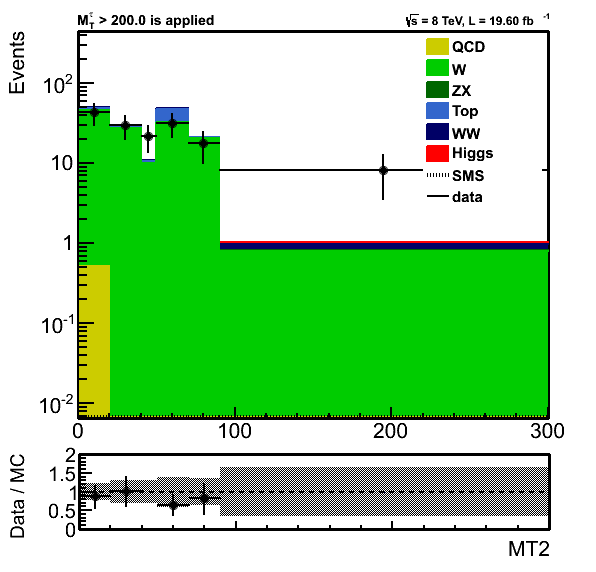
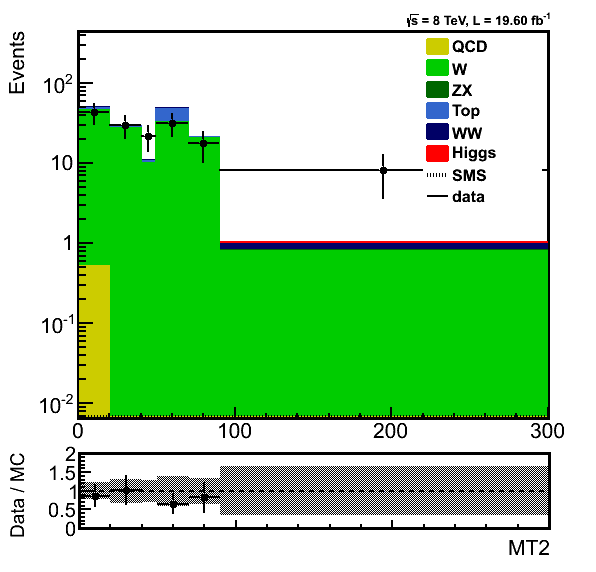
Closure is fixed.

diff --git a/notes/AN-14-275/trunk/FakeRateMuTau/Estimation_pfWJets_ExtraLepExcl_SameSignWeightedHiggs_tauMTApplied.C b/notes/AN-14-275/trunk/FakeRateMuTau/Estimation_pfWJets_ExtraLepExcl_SameSignWeightedHiggs_tauMTApplied.C
@@ -1,7 +1,7 @@
 {
 //=========Macro generated from canvas: MT2_ratioc_ratio/
-//=========  (Mon Feb 22 16:14:23 2016) by ROOT version5.32/00
-   TCanvas *MT2_ratioc_ratio = new TCanvas("MT2_ratioc_ratio", "",3,26,600,600);
+//=========  (Sat Jun 13 14:57:37 2015) by ROOT version5.34/03
+   TCanvas *MT2_ratioc_ratio = new TCanvas("MT2_ratioc_ratio", "",679,68,600,600);
    gStyle->SetOptFit(1);
    MT2_ratioc_ratio->Range(0,0,1,1);
    MT2_ratioc_ratio->SetFillColor(0);
@@ -18,7 +18,7 @@
    TPad *MT2_ratio_plotpad = new TPad("MT2_ratio_plotpad", "Pad containing the overlay plot",0,0.211838,1,1);
    MT2_ratio_plotpad->Draw();
    MT2_ratio_plotpad->cd();
-   MT2_ratio_plotpad->Range(-50.06678,-2.581339,330.4406,2.992695);
+   MT2_ratio_plotpad->Range(-50.06678,-2.596561,330.4406,3.097568);
    MT2_ratio_plotpad->SetFillColor(0);
    MT2_ratio_plotpad->SetFillStyle(4000);
    MT2_ratio_plotpad->SetBorderMode(0);
@@ -39,11 +39,11 @@
    MT2->SetName("MT2");
    MT2->SetTitle("");
    MT2->SetMinimum(0.02);
-   MT2->SetMaximum(224.2202);
+   MT2->SetMaximum(277.2461);
    
    TH1F *MT2_stack_1 = new TH1F("MT2_stack_1","",6,0,300);
-   MT2_stack_1->SetMinimum(0.006611959);
-   MT2_stack_1->SetMaximum(405.8226);
+   MT2_stack_1->SetMinimum(0.006512711);
+   MT2_stack_1->SetMaximum(506.9077);
    MT2_stack_1->SetDirectory(0);
    MT2_stack_1->SetStats(0);
    MT2_stack_1->SetLineWidth(2);
@@ -69,8 +69,6 @@
    
    Double_t xAxis1[7] = {0, 20, 40, 50, 70, 90, 300}; 
    
-   TH1D *h__MC = new TH1D("h__MC","", 6, xAxis1);
-
    TH1D *MT2_QCD = new TH1D("MT2_QCD","",6, xAxis1);
    MT2_QCD->SetEntries(4);
    MT2_QCD->SetStats(0);
@@ -275,34 +273,24 @@
    MT2_Higgs->GetZaxis()->SetTitleFont(42);
    MT2->Add(MT2_Higgs,"");
    MT2->Draw("hist");
-
-   h__MC->Add(MT2_QCD);
-   h__MC->Add(MT2_W);
-   h__MC->Add(MT2_ZX);
-   h__MC->Add(MT2_Top);
-   h__MC->Add(MT2_WW);
-   h__MC->Add(MT2_Higgs);
-
-
    Double_t xAxis7[7] = {0, 20, 40, 50, 70, 90, 300}; 
-  
+   
    TH1D *h2_copy = new TH1D("h2_copy","",6, xAxis7);
-   h2_copy->SetBinContent(1,17.5993 );
-   h2_copy->SetBinContent(2,27.941);
-   h2_copy->SetBinContent(3,30.4068 );
-   h2_copy->SetBinContent(4,49.374);
-   h2_copy->SetBinContent(5,5.79573);
-   h2_copy->SetBinContent(6,1.11233);
-
-   h2_copy->SetBinError(1,6.83998);
-   h2_copy->SetBinError(2,6.56287);
-   h2_copy->SetBinError(3,7.90066);
-   h2_copy->SetBinError(4,10.5467);
-   h2_copy->SetBinError(5,4.37239);
-   h2_copy->SetBinError(6,1.05646);
+   h2_copy->SetBinContent(1,19.40169);
+   h2_copy->SetBinContent(2,17.45068);
+   h2_copy->SetBinContent(3,32.86785);
+   h2_copy->SetBinContent(4,55.44922);
+   h2_copy->SetBinContent(5,10.13775);
+   h2_copy->SetBinContent(6,0.9940734);
+   h2_copy->SetBinError(1,7.148468);
+   h2_copy->SetBinError(2,6.773736);
+   h2_copy->SetBinError(3,8.451937);
+   h2_copy->SetBinError(4,11.72198);
+   h2_copy->SetBinError(5,5.173124);
+   h2_copy->SetBinError(6,1.059176);
    h2_copy->SetMinimum(0.05);
-   h2_copy->SetMaximum(224.2202);
-   h2_copy->SetEntries(388);
+   h2_copy->SetMaximum(277.2461);
+   h2_copy->SetEntries(438);
    h2_copy->SetStats(0);
 
    ci = TColor::GetColor("#ff0000");
@@ -350,20 +338,27 @@
    MT2_susy->GetZaxis()->SetTitleSize(0.035);
    MT2_susy->GetZaxis()->SetTitleFont(42);
    MT2_susy->Draw("samehist");
-   TLatex *   tex = new TLatex(0.13,0.943,"Closure (M_{T}^{#tau}>200 is applied)");
+   TLatex *   tex = new TLatex(0.13,0.943,"Closure");
 tex->SetNDC();
-   tex->SetTextSize(0.04);
+   tex->SetTextSize(0.0305);
    tex->SetLineWidth(2);
    tex->Draw();
-      tex = new TLatex(0.68,0.943,"#sqrt{s} = 8 TeV, L = 19.60 fb^{-1}");
-tex->SetNDC();
+
+   tex = new TLatex(20, 200,"#mu#tau");
+   tex->SetTextSize(0.05);
+   tex->SetLineWidth(2);
+   tex->Draw();
+
+
+   tex = new TLatex(0.68,0.943,"#sqrt{s} = 8 TeV, L = 19.60 fb^{-1}");
+   tex->SetNDC();
    tex->SetTextSize(0.0305);
    tex->SetLineWidth(2);
    tex->Draw();
    
    TH1F *MT2__1 = new TH1F("MT2__1","",6,0,300);
-   MT2__1->SetMinimum(0.006611959);
-   MT2__1->SetMaximum(405.8226);
+   MT2__1->SetMinimum(0.006512711);
+   MT2__1->SetMaximum(506.9077);
    MT2__1->SetDirectory(0);
    MT2__1->SetStats(0);
    MT2__1->SetLineWidth(2);
@@ -473,13 +468,13 @@ tex->SetNDC();
    entry->SetMarkerColor(1);
    entry->SetMarkerStyle(21);
    entry->SetMarkerSize(1);
-   entry=leg->AddEntry("MT2_susy","SMS","l");
-   entry->SetLineColor(1);
-   entry->SetLineStyle(3);
-   entry->SetLineWidth(4);
-   entry->SetMarkerColor(1);
-   entry->SetMarkerStyle(21);
-   entry->SetMarkerSize(1);
+//    entry=leg->AddEntry("MT2_susy","SMS","l");
+//    entry->SetLineColor(1);
+//    entry->SetLineStyle(3);
+//    entry->SetLineWidth(4);
+//    entry->SetMarkerColor(1);
+//    entry->SetMarkerStyle(21);
+//    entry->SetMarkerSize(1);
    entry=leg->AddEntry("MT2_data","data","l");
    entry->SetLineColor(1);
    entry->SetLineStyle(1);
@@ -509,18 +504,34 @@ tex->SetNDC();
    MT2_ratio_ratiopad->SetFrameLineWidth(3);
    MT2_ratio_ratiopad->SetFrameBorderMode(0);
    MT2_ratio_ratiopad->SetFrameBorderSize(0);
+   Double_t xAxis9[7] = {0, 20, 40, 50, 70, 90, 300}; 
    
-
-     TH1F *h1_copy  = (TH1F*)h__MC->Clone();
-   h1_copy->Divide(h1_copy);
-
-
+   TH1D *h1_copy = new TH1D("h1_copy","",6, xAxis9);
+   h1_copy->SetBinContent(1,1);
+   h1_copy->SetBinContent(2,1);
+   h1_copy->SetBinContent(3,1);
+   h1_copy->SetBinContent(4,1);
+   h1_copy->SetBinContent(5,1);
+   h1_copy->SetBinContent(6,1);
+   h1_copy->SetBinError(1,0.2483643);
+   h1_copy->SetBinError(2,0.3363495);
+   h1_copy->SetBinError(3,0.3224975);
+   h1_copy->SetBinError(4,0.3185094);
+   h1_copy->SetBinError(5,0.368699);
+   h1_copy->SetBinError(6,0.8412826);
    h1_copy->SetMinimum(0);
    h1_copy->SetMaximum(2);
+   h1_copy->SetEntries(29.41263);
    h1_copy->SetStats(0);
    h1_copy->SetFillColor(1);
    h1_copy->SetFillStyle(3001);
+
+   ci = TColor::GetColor("#000066");
+   h1_copy->SetLineColor(ci);
    h1_copy->SetLineWidth(2);
+
+   ci = TColor::GetColor("#000066");
+   h1_copy->SetMarkerColor(ci);
    h1_copy->GetXaxis()->SetTitle("MT2");
    h1_copy->GetXaxis()->SetNdivisions(505);
    h1_copy->GetXaxis()->SetLabelFont(42);
@@ -541,14 +552,29 @@ tex->SetNDC();
    h1_copy->GetZaxis()->SetTitleSize(0.035);
    h1_copy->GetZaxis()->SetTitleFont(42);
    h1_copy->Draw("E2");
+   Double_t xAxis10[7] = {0, 20, 40, 50, 70, 90, 300}; 
    
-   TH1F *h2_copy__2  = (TH1F*)h2_copy->Clone();
-   h2_copy__2->Divide(h__MC);
+   TH1D *h2_copy__2 = new TH1D("h2_copy__2","",6, xAxis10);
+   h2_copy__2->SetBinContent(1,0.4326482);
+   h2_copy__2->SetBinContent(2,0.6452815);
+   h2_copy__2->SetBinContent(3,3.318017);
+   h2_copy__2->SetBinContent(4,1.704449);
+   h2_copy__2->SetBinContent(5,0.4957714);
+   h2_copy__2->SetBinContent(6,1.263149);
+   h2_copy__2->SetBinError(1,0.1765897);
+   h2_copy__2->SetBinError(2,0.2937536);
+   h2_copy__2->SetBinError(3,1.140394);
+   h2_copy__2->SetBinError(4,0.5264904);
+   h2_copy__2->SetBinError(5,0.2840898);
+   h2_copy__2->SetBinError(6,1.541429);
    h2_copy__2->SetMinimum(0.4);
    h2_copy__2->SetMaximum(3);
-   h2_copy__2->SetEntries(2.397098);
+   h2_copy__2->SetEntries(14.87733);
    h2_copy__2->SetDirectory(0);
    h2_copy__2->SetStats(0);
+
+   ci = TColor::GetColor("#ff0000");
+   h2_copy__2->SetFillColor(ci);
    h2_copy__2->SetLineWidth(2);
    h2_copy__2->SetMarkerStyle(20);
    h2_copy__2->GetXaxis()->SetNdivisions(505);
@@ -572,9 +598,58 @@ tex->SetNDC();
    line->SetLineStyle(7);
    line->SetLineWidth(2);
    line->Draw();
+   Double_t xAxis11[7] = {0, 20, 40, 50, 70, 90, 300}; 
    
+   TH1D *h1_copy__3 = new TH1D("h1_copy__3","",6, xAxis11);
+   h1_copy__3->SetBinContent(1,1);
+   h1_copy__3->SetBinContent(2,1);
+   h1_copy__3->SetBinContent(3,1);
+   h1_copy__3->SetBinContent(4,1);
+   h1_copy__3->SetBinContent(5,1);
+   h1_copy__3->SetBinContent(6,1);
+   h1_copy__3->SetBinError(1,0.2483643);
+   h1_copy__3->SetBinError(2,0.3363495);
+   h1_copy__3->SetBinError(3,0.3224975);
+   h1_copy__3->SetBinError(4,0.3185094);
+   h1_copy__3->SetBinError(5,0.368699);
+   h1_copy__3->SetBinError(6,0.8412826);
+   h1_copy__3->SetMinimum(0);
+   h1_copy__3->SetMaximum(2);
+   h1_copy__3->SetEntries(29.41263);
+   h1_copy__3->SetDirectory(0);
+   h1_copy__3->SetStats(0);
+   h1_copy__3->SetFillColor(1);
+   h1_copy__3->SetFillStyle(3001);
 
+   ci = TColor::GetColor("#000066");
+   h1_copy__3->SetLineColor(ci);
+   h1_copy__3->SetLineWidth(2);
 
+   ci = TColor::GetColor("#000066");
+   h1_copy__3->SetMarkerColor(ci);
+   h1_copy__3->GetXaxis()->SetTitle("MT2");
+   h1_copy__3->GetXaxis()->SetNdivisions(505);
+   h1_copy__3->GetXaxis()->SetLabelFont(42);
+   h1_copy__3->GetXaxis()->SetLabelSize(0);
+   h1_copy__3->GetXaxis()->SetTitleSize(0.2);
+   h1_copy__3->GetXaxis()->SetTickLength(0.09);
+   h1_copy__3->GetXaxis()->SetTitleOffset(0.5);
+   h1_copy__3->GetXaxis()->SetTitleFont(42);
+   h1_copy__3->GetYaxis()->SetTitle("Data / MC");
+   h1_copy__3->GetYaxis()->SetNdivisions(509);
+   h1_copy__3->GetYaxis()->SetLabelFont(42);
+   h1_copy__3->GetYaxis()->SetLabelSize(0.19);
+   h1_copy__3->GetYaxis()->SetTitleSize(0.18);
+   h1_copy__3->GetYaxis()->SetTitleOffset(0.36);
+   h1_copy__3->GetYaxis()->SetTitleFont(42);
+   h1_copy__3->GetZaxis()->SetLabelFont(42);
+   h1_copy__3->GetZaxis()->SetLabelSize(0.035);
+   h1_copy__3->GetZaxis()->SetTitleSize(0.035);
+   h1_copy__3->GetZaxis()->SetTitleFont(42);
+   h1_copy__3->Draw("sameaxis");
+   MT2_ratio_ratiopad->Modified();
+   MT2_ratioc_ratio->cd();
+   MT2_ratioc_ratio->Modified();
+   MT2_ratioc_ratio->cd();
+   MT2_ratioc_ratio->SetSelected(MT2_ratioc_ratio);
 }
-
-

diff --git a/notes/AN-14-275/trunk/BackgroundsLepTauFake.tex b/notes/AN-14-275/trunk/BackgroundsLepTauFake.tex
@@ -122,10 +122,10 @@ the systematic uncertainties due to prompt and fake rate also.
    \mttwo range    &  \wjets& Estimation & ratio\\
 \hline
 \hline
-40-50  & 9.91  $\pm$ 2.26 & 30.41 $\pm$ 7.90  & 3.07 $\pm$ 1.06 \\ 
-50-70  & 32.53 $\pm$ 7.33 & 49.37 $\pm$ 10.55 & 1.52 $\pm$ 0.47 \\ 
-70-90  & 20.45 $\pm$ 5.33 &  5.80 $\pm$  4.37 & 0.28 $\pm$ 0.23 \\
-90-300 & 0.79  $\pm$ 0.47 &  1.11 $\pm$ 1.06  & 1.41 $\pm$ 1.58 \\
+40-50  & 9.91  $\pm$ 2.26 & 32.87 $\pm$ 8.45  & 3.32 $\pm$ 1.14 \\ 
+50-70  & 32.53 $\pm$ 7.33 & 55.45 $\pm$ 11.72 & 1.70 $\pm$ 0.53 \\ 
+70-90  & 20.45 $\pm$ 5.33 & 10.14 $\pm$ 5.17  & 0.49 $\pm$ 0.28\\
+90-300 & 0.79  $\pm$ 0.47 &  0.99 $\pm$ 1.06  & 1.25 $\pm$ 1.53\\
 \hline
 \hline
 \end{tabular}

diff --git a/notes/AN-14-275/trunk/FakeRateMuTau/Estimation_ExtraLepExcl_SameSignWeightedHiggs_tauMTApplied.C b/notes/AN-14-275/trunk/FakeRateMuTau/Estimation_ExtraLepExcl_SameSignWeightedHiggs_tauMTApplied.C
@@ -396,7 +396,7 @@
 tex->SetNDC();
    tex->SetTextSize(0.0354902);
    tex->SetLineWidth(2);
-   tex->Draw();
+   //   tex->Draw();
       tex = new TLatex(0.68,0.943,"#sqrt{s} = 8 TeV, L = 19.60 fb^{-1}");
 tex->SetNDC();
    tex->SetTextSize(0.0305);
